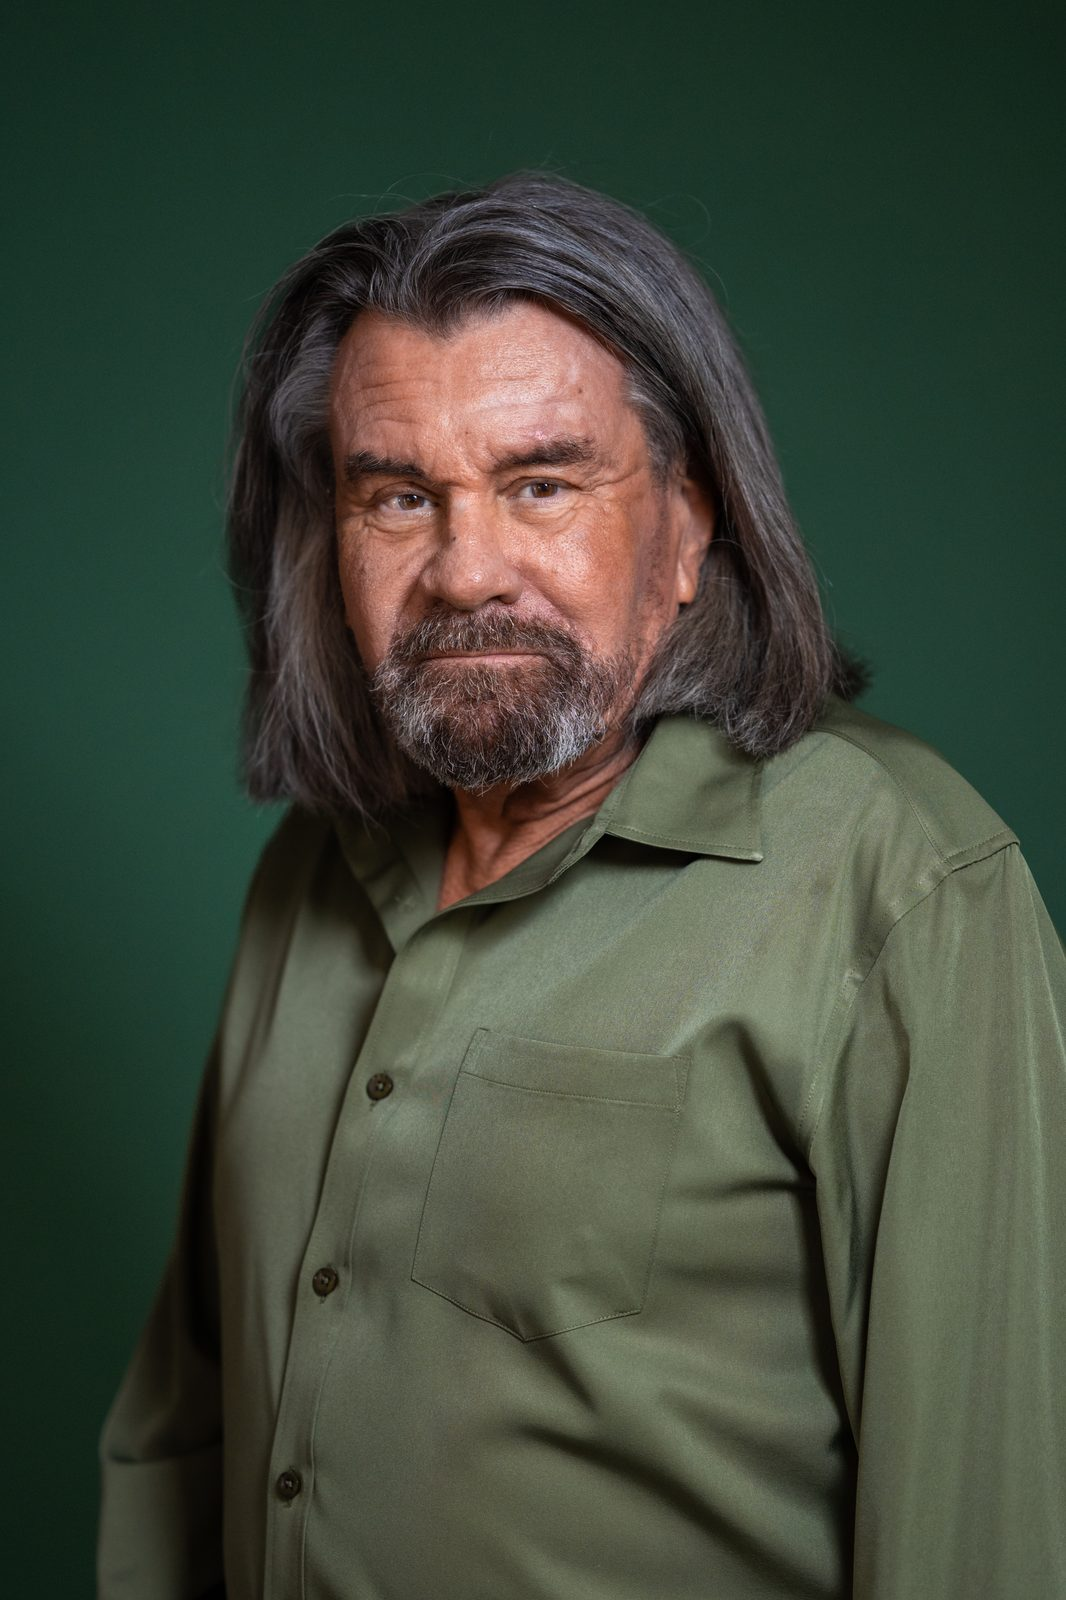
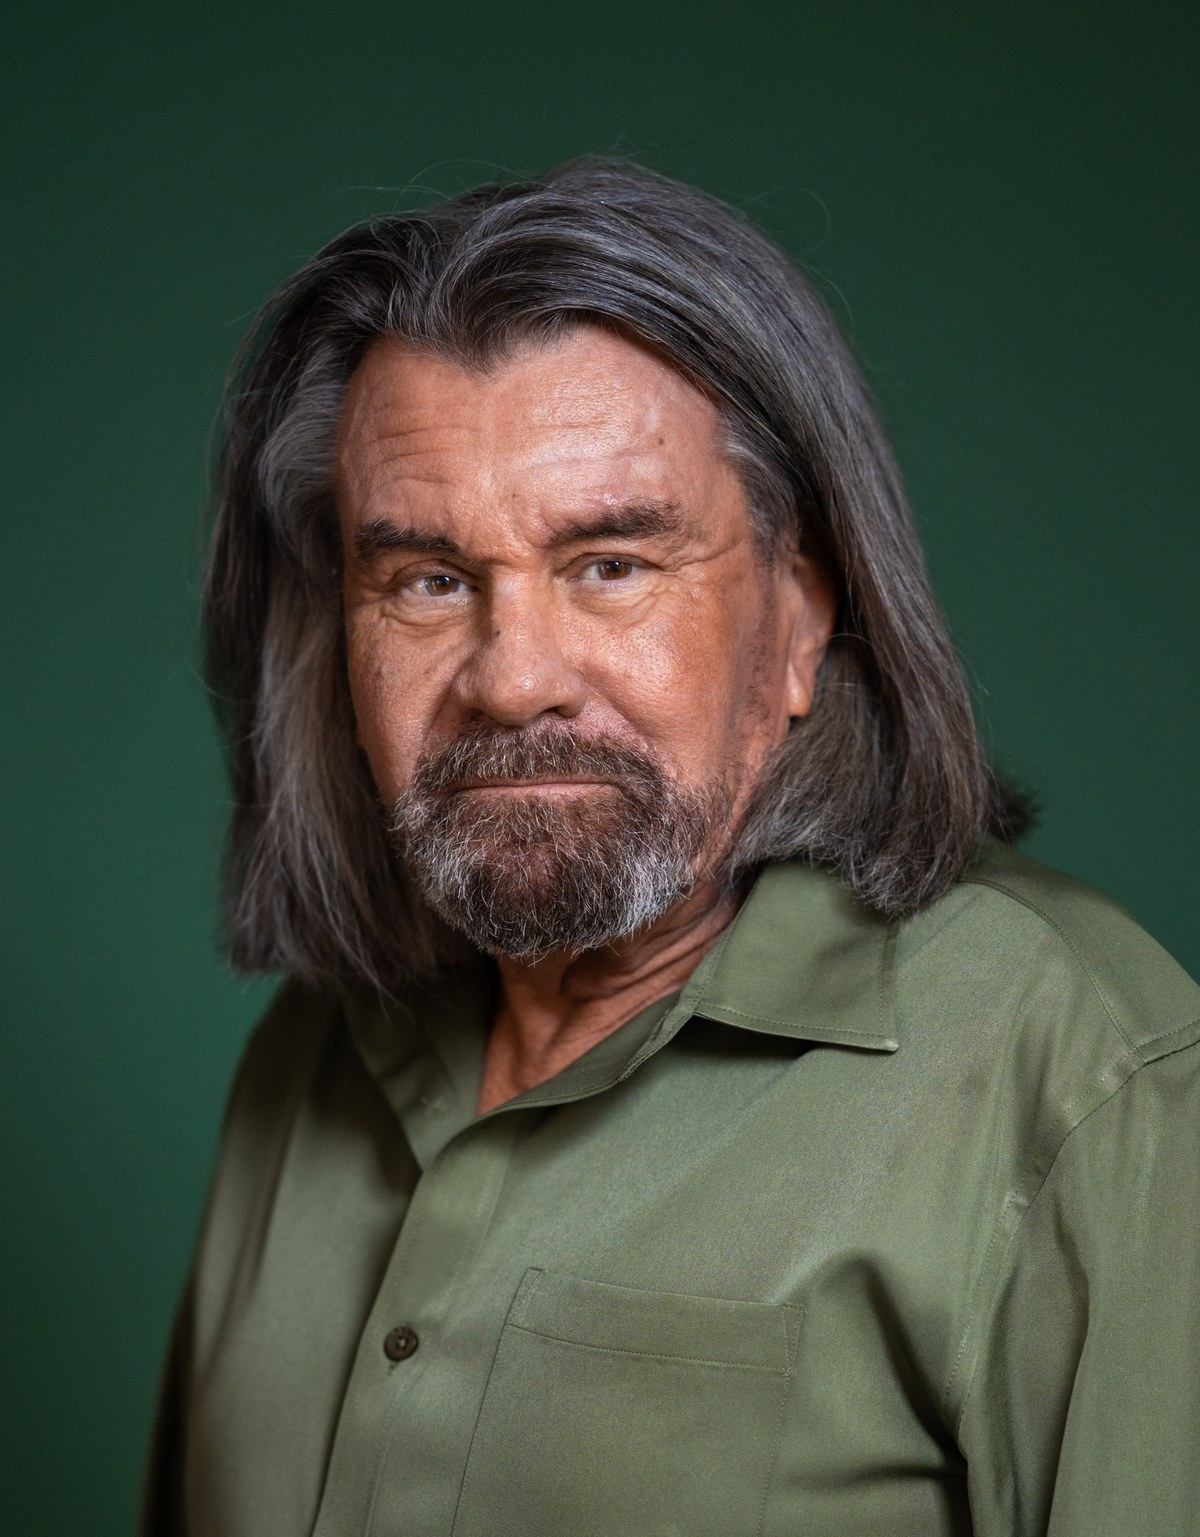
Green portrait rollout — About + Estate Planning + Real Estate + Business Entities

diff --git a/about.html b/about.html
@@ -349,7 +349,7 @@
     <p class="lede">A 30+ year Texas attorney whose practice moves across commercial finance, federal tax credit finance, tax resolution, and estate planning — and who builds the infrastructure his firm runs on himself.</p>
   </div>
   <div class="portrait-frame" style="padding:0;border:none;">
-    <img src="/norris-portrait-advisor.jpg" alt="Norris Lozano, founding attorney of Lozano Legal Advisors PLLC" style="display:block;width:100%;height:100%;object-fit:cover;" />
+    <img src="/norris-portrait-editorial.jpg" alt="Norris Lozano, founding attorney of Lozano Legal Advisors PLLC" style="display:block;width:100%;height:100%;object-fit:cover;" />
   </div>
 </section>
 

diff --git a/business-entities.html b/business-entities.html
@@ -311,7 +311,7 @@
 </section>
 
 <section style="max-width:420px;margin:0 auto;padding:48px 40px 0;">
-  <img src="/norris-portrait-advisor.jpg" alt="Norris Lozano, founding attorney" style="display:block;width:100%;height:auto;" loading="lazy" />
+  <img src="/norris-portrait-editorial.jpg" alt="Norris Lozano, founding attorney" style="display:block;width:100%;height:auto;" loading="lazy" />
 </section>
 
 <section class="content">

diff --git a/estate-planning.html b/estate-planning.html
@@ -311,7 +311,7 @@
 </section>
 
 <section style="max-width:420px;margin:0 auto;padding:48px 40px 0;">
-  <img src="/norris-portrait-advisor.jpg" alt="Norris Lozano, founding attorney" style="display:block;width:100%;height:auto;" loading="lazy" />
+  <img src="/norris-portrait-editorial.jpg" alt="Norris Lozano, founding attorney" style="display:block;width:100%;height:auto;" loading="lazy" />
 </section>
 
 <section class="content">

diff --git a/real-estate.html b/real-estate.html
@@ -311,7 +311,7 @@
 </section>
 
 <section style="max-width:420px;margin:0 auto;padding:48px 40px 0;">
-  <img src="/norris-portrait-advisor.jpg" alt="Norris Lozano, founding attorney" style="display:block;width:100%;height:auto;" loading="lazy" />
+  <img src="/norris-portrait-editorial.jpg" alt="Norris Lozano, founding attorney" style="display:block;width:100%;height:auto;" loading="lazy" />
 </section>
 
 <section class="content">